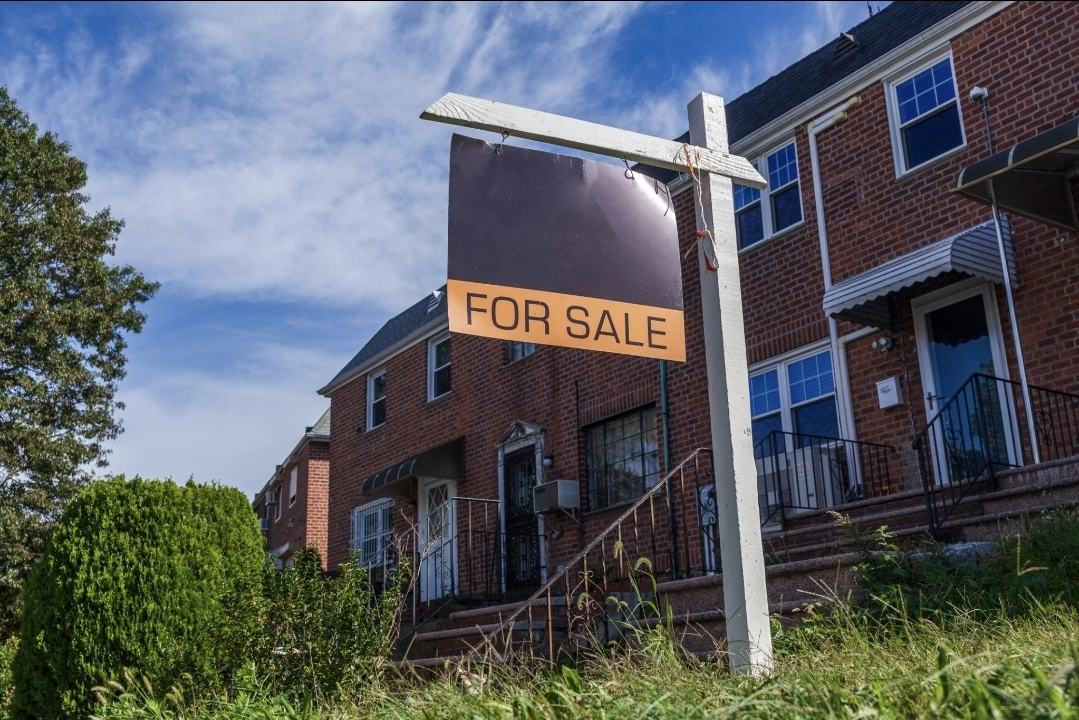
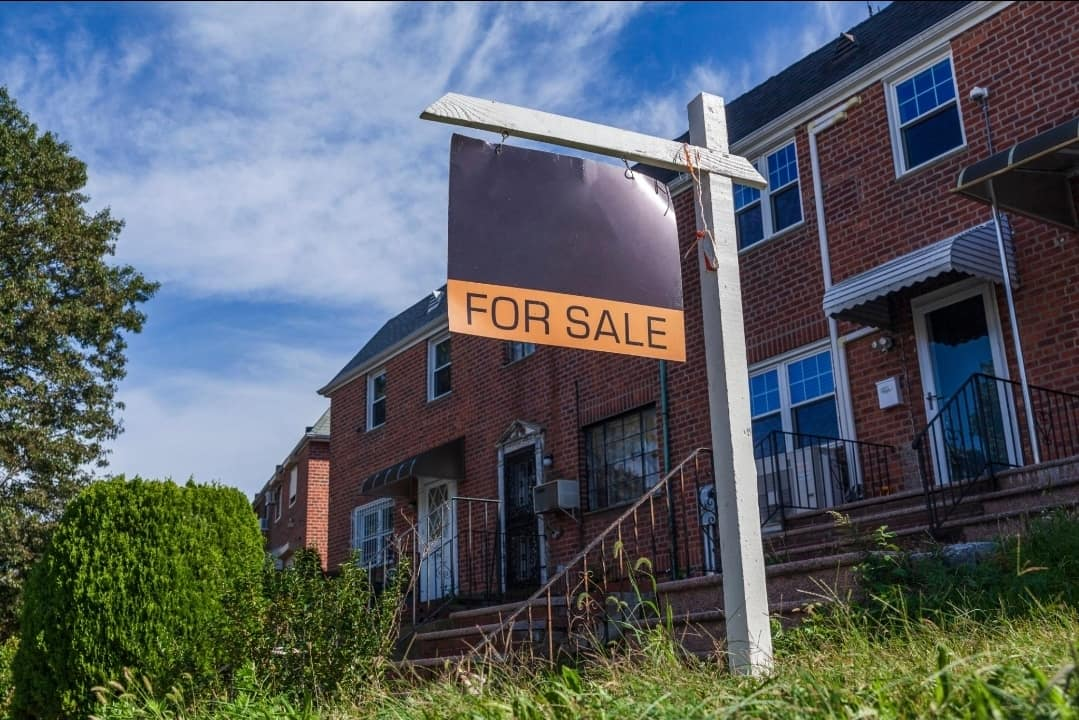
Optimize images: WebP + compression to cut mobile LCP
Lighthouse on www.doryangel.com showed mobile Performance 42/100 with
LCP 21.1s, driven almost entirely by heavy JPEG hero/photo assets.

- Recompress all referenced JPEGs in place (mozjpeg) and add WebP variants
  (~3.6MB -> ~396KB best-format for the photo set).
- Serve WebP via <picture> for the audience/checklist/contact <img>s and via
  CSS image-set() (with JPEG fallback) for the two local hero backgrounds.
- Add auto=format,compress to all Unsplash URLs so they deliver AVIF/WebP.
- Add loading=lazy/decoding=async to below-fold content-card images.
- picture { display: contents } keeps existing img box/styles intact.

Claude-Session: https://claude.ai/code/session_01KARuADa9q5weVJCPUDCfn4

diff --git a/index.html b/index.html
@@ -520,6 +520,8 @@ section { padding: 96px 40px; }
   cursor: pointer; text-decoration: none; color: inherit;
   display: block; overflow: hidden;
 }
+/* <picture> is layout-transparent so its <img> inherits the same box/styles as a bare <img> */
+picture { display: contents; }
 .audience-card-photo {
   margin: -32px -28px 24px;
   height: 180px; border-radius: var(--radius) var(--radius) 0 0; overflow: hidden;
@@ -2438,12 +2440,12 @@ retell-chat-web-component {
 <!-- HERO -->
 <div class="hero-wrap" id="main-content">
 <div class="hero-skyline" id="hero-skyline" aria-hidden="true">
-  <div class="hero-photo active" role="img" aria-label="NYC residential street with apartment buildings" style="background-image:url('https://images.unsplash.com/photo-1496442226666-8d4d0e62e6e9?w=1600&q=80&fit=crop')"></div>
-  <div class="hero-photo" role="img" aria-label="Modern apartment building facade in New York City" style="background-image:url('https://images.unsplash.com/photo-1485871981521-5b1fd3805eee?w=1600&q=80&fit=crop')"></div>
-  <div class="hero-photo" role="img" aria-label="NYC neighborhood with brownstone buildings" style="background-image:url('https://images.unsplash.com/photo-1518391846015-55a9cc003b25?w=1600&q=80&fit=crop')"></div>
-  <div class="hero-photo" role="img" aria-label="Bronx residential property exterior" style="background-image:url('https://images.unsplash.com/photo-1538970272646-f61fabb3a8a2?w=1600&q=80&fit=crop')"></div>
-  <div class="hero-photo" role="img" aria-label="NYC high-rise residential tower architecture" style="background-image:url('./assets/photo-hero-nyc-tower.jpg')"></div>
-  <div class="hero-photo" role="img" aria-label="Brick rowhouse in a New York City neighborhood with a for-sale sign" style="background-image:url('./assets/photo-hero-for-sale.jpg')"></div>
+  <div class="hero-photo active" role="img" aria-label="NYC residential street with apartment buildings" style="background-image:url('https://images.unsplash.com/photo-1496442226666-8d4d0e62e6e9?w=1600&q=70&auto=format,compress&fit=crop')"></div>
+  <div class="hero-photo" role="img" aria-label="Modern apartment building facade in New York City" style="background-image:url('https://images.unsplash.com/photo-1485871981521-5b1fd3805eee?w=1600&q=70&auto=format,compress&fit=crop')"></div>
+  <div class="hero-photo" role="img" aria-label="NYC neighborhood with brownstone buildings" style="background-image:url('https://images.unsplash.com/photo-1518391846015-55a9cc003b25?w=1600&q=70&auto=format,compress&fit=crop')"></div>
+  <div class="hero-photo" role="img" aria-label="Bronx residential property exterior" style="background-image:url('https://images.unsplash.com/photo-1538970272646-f61fabb3a8a2?w=1600&q=70&auto=format,compress&fit=crop')"></div>
+  <div class="hero-photo" role="img" aria-label="NYC high-rise residential tower architecture" style="background-image:url('./assets/photo-hero-nyc-tower.jpg');background-image:image-set(url('./assets/photo-hero-nyc-tower.webp') type('image/webp'), url('./assets/photo-hero-nyc-tower.jpg') type('image/jpeg'))"></div>
+  <div class="hero-photo" role="img" aria-label="Brick rowhouse in a New York City neighborhood with a for-sale sign" style="background-image:url('./assets/photo-hero-for-sale.jpg');background-image:image-set(url('./assets/photo-hero-for-sale.webp') type('image/webp'), url('./assets/photo-hero-for-sale.jpg') type('image/jpeg'))"></div>
 </div>
 <div class="hero">
   <div class="hero-content">
@@ -2536,7 +2538,10 @@ retell-chat-web-component {
       <!-- Owners -->
       <a href="#pricing" class="audience-card">
         <div class="audience-card-photo">
-          <img src="./assets/photo-owners-signing.jpg" alt="Property owners signing a management agreement with their DoryAngel manager" loading="lazy">
+          <picture>
+            <source srcset="./assets/photo-owners-signing.webp" type="image/webp">
+            <img src="./assets/photo-owners-signing.jpg" alt="Property owners signing a management agreement with their DoryAngel manager" loading="lazy" decoding="async">
+          </picture>
         </div>
         <div class="audience-icon">
           <svg viewBox="0 0 24 24" fill="none" stroke="currentColor" stroke-width="2">
@@ -2555,7 +2560,10 @@ retell-chat-web-component {
       <!-- Tenants -->
       <a href="https://doryangel.managebuilding.com" target="_blank" rel="noopener noreferrer" class="audience-card">
         <div class="audience-card-photo">
-          <img src="./assets/photo-tenants-nyc-home.jpg" alt="A real NYC residential home managed by DoryAngel" loading="lazy">
+          <picture>
+            <source srcset="./assets/photo-tenants-nyc-home.webp" type="image/webp">
+            <img src="./assets/photo-tenants-nyc-home.jpg" alt="A real NYC residential home managed by DoryAngel" loading="lazy" decoding="async">
+          </picture>
         </div>
         <div class="audience-icon">
           <svg viewBox="0 0 24 24" fill="none" stroke="currentColor" stroke-width="2">
@@ -2574,7 +2582,10 @@ retell-chat-web-component {
       <!-- Brokers -->
       <a href="broker-partner.html" class="audience-card">
         <div class="audience-card-photo">
-          <img src="./assets/photo-brokers-consultation.jpg" alt="Real estate broker and client reviewing a property management proposal" loading="lazy">
+          <picture>
+            <source srcset="./assets/photo-brokers-consultation.webp" type="image/webp">
+            <img src="./assets/photo-brokers-consultation.jpg" alt="Real estate broker and client reviewing a property management proposal" loading="lazy" decoding="async">
+          </picture>
         </div>
         <div class="audience-icon">
           <svg viewBox="0 0 24 24" fill="none" stroke="currentColor" stroke-width="2">
@@ -2594,7 +2605,10 @@ retell-chat-web-component {
       <!-- Vendors -->
       <a href="#contact" class="audience-card">
         <div class="audience-card-photo">
-          <img src="./assets/photo-vendors-maintenance.jpg" alt="Maintenance technician servicing an apartment unit for a DoryAngel property" loading="lazy">
+          <picture>
+            <source srcset="./assets/photo-vendors-maintenance.webp" type="image/webp">
+            <img src="./assets/photo-vendors-maintenance.jpg" alt="Maintenance technician servicing an apartment unit for a DoryAngel property" loading="lazy" decoding="async">
+          </picture>
         </div>
         <div class="audience-icon">
           <svg viewBox="0 0 24 24" fill="none" stroke="currentColor" stroke-width="2">
@@ -2621,10 +2635,14 @@ retell-chat-web-component {
 
     <div style="display:flex;gap:48px;align-items:center;margin-top:40px;margin-bottom:56px;flex-wrap:wrap;">
       <div style="flex:0 0 360px;max-width:100%;">
-        <img src="./assets/photo-owner-checklist.jpg"
-             alt="Property manager reviewing a property visit checklist on a tablet"
-             loading="lazy"
-             style="width:100%;border-radius:16px;box-shadow:var(--shadow-lg);display:block;object-fit:cover;">
+        <picture>
+          <source srcset="./assets/photo-owner-checklist.webp" type="image/webp">
+          <img src="./assets/photo-owner-checklist.jpg"
+               alt="Property manager reviewing a property visit checklist on a tablet"
+               loading="lazy"
+               decoding="async"
+               style="width:100%;border-radius:16px;box-shadow:var(--shadow-lg);display:block;object-fit:cover;">
+        </picture>
       </div>
       <div style="flex:1;min-width:240px;">
         <p style="font-family:'DM Serif Display',serif;font-size:26px;color:var(--navy);line-height:1.4;margin-bottom:20px;">"We don't just manage properties — we protect your investment, so you can focus on what matters."</p>
@@ -3113,7 +3131,7 @@ retell-chat-web-component {
     <!-- Static fallback for mobile / reduced-motion -->
     <img
       class="video-divider__img"
-      src="https://images.unsplash.com/photo-1546436836-07a91091f160?w=1600&q=80"
+      src="https://images.unsplash.com/photo-1546436836-07a91091f160?w=1600&q=70&auto=format,compress"
       alt="New York City skyline"
       loading="lazy"
     />
@@ -3425,7 +3443,7 @@ retell-chat-web-component {
     <noscript>
       <div style="display:grid;grid-template-columns:repeat(auto-fill,minmax(280px,1fr));gap:24px;margin-top:32px;">
         <a href="/blog/how-much-will-spring-flooding-cost-bronx-landlords-in-2026-a/" style="text-decoration:none;border-radius:12px;overflow:hidden;border:1px solid #E2E8F0;display:block;">
-          <img src="https://images.unsplash.com/photo-1657727534671-f0c753f3a098?w=600&q=80&fit=crop" alt="Flooded basement apartment in a Bronx multi-family building" style="width:100%;height:180px;object-fit:cover;display:block;">
+          <img src="https://images.unsplash.com/photo-1657727534671-f0c753f3a098?w=600&q=70&auto=format,compress&fit=crop" alt="Flooded basement apartment in a Bronx multi-family building" loading="lazy" decoding="async" style="width:100%;height:180px;object-fit:cover;display:block;">
           <div style="padding:16px 20px;">
             <div style="font-size:11px;font-weight:700;color:#1E5AA8;text-transform:uppercase;letter-spacing:0.08em;margin-bottom:8px;">Property Management · 4 min read</div>
             <div style="font-size:16px;font-weight:700;color:#0F2847;line-height:1.35;margin-bottom:8px;">How Much Will Spring Flooding Cost Bronx Landlords in 2026? A Drainage Prevention Guide</div>
@@ -3433,7 +3451,7 @@ retell-chat-web-component {
           </div>
         </a>
         <a href="/blog/are-your-bronx-rental-units-spring-ready-the-essential-exter/" style="text-decoration:none;border-radius:12px;overflow:hidden;border:1px solid #E2E8F0;display:block;">
-          <img src="https://images.unsplash.com/photo-1573878220075-17bb8dad878d?w=600&q=80&fit=crop" alt="Bronx multi-family rental building exterior being inspected for spring maintenance" style="width:100%;height:180px;object-fit:cover;display:block;">
+          <img src="https://images.unsplash.com/photo-1573878220075-17bb8dad878d?w=600&q=70&auto=format,compress&fit=crop" alt="Bronx multi-family rental building exterior being inspected for spring maintenance" loading="lazy" decoding="async" style="width:100%;height:180px;object-fit:cover;display:block;">
           <div style="padding:16px 20px;">
             <div style="font-size:11px;font-weight:700;color:#1E5AA8;text-transform:uppercase;letter-spacing:0.08em;margin-bottom:8px;">Property Management · 5 min read</div>
             <div style="font-size:16px;font-weight:700;color:#0F2847;line-height:1.35;margin-bottom:8px;">Are Your Bronx Rental Units Spring-Ready? The Essential Exterior Inspection Guide for 2026</div>
@@ -3441,7 +3459,7 @@ retell-chat-web-component {
           </div>
         </a>
         <a href="/blog/how-ai-security-cameras-are-reducing-vacancy-crimes-in-nyc-re/" style="text-decoration:none;border-radius:12px;overflow:hidden;border:1px solid #E2E8F0;display:block;">
-          <img src="https://images.unsplash.com/photo-1557804506-669a67965ba0?w=600&q=80&fit=crop" alt="Modern AI security camera mounted on a brick building exterior in an urban neighborhood" style="width:100%;height:180px;object-fit:cover;display:block;">
+          <img src="https://images.unsplash.com/photo-1557804506-669a67965ba0?w=600&q=70&auto=format,compress&fit=crop" alt="Modern AI security camera mounted on a brick building exterior in an urban neighborhood" loading="lazy" decoding="async" style="width:100%;height:180px;object-fit:cover;display:block;">
           <div style="padding:16px 20px;">
             <div style="font-size:11px;font-weight:700;color:#1E5AA8;text-transform:uppercase;letter-spacing:0.08em;margin-bottom:8px;">Property Automation · 6 min read</div>
             <div style="font-size:16px;font-weight:700;color:#0F2847;line-height:1.35;margin-bottom:8px;">How AI Security Cameras Are Reducing Vacancy Crimes in NYC Rental Buildings</div>
@@ -4071,10 +4089,14 @@ retell-chat-web-component {
 
     <div class="contact-layout">
       <div class="contact-info">
-        <img src="./assets/photo-contact-professional.jpg"
-             alt="DoryAngel property management professional ready to help"
-             loading="lazy"
-             style="width:100%;height:220px;object-fit:cover;object-position:center top;border-radius:12px;margin-bottom:28px;display:block;">
+        <picture>
+          <source srcset="./assets/photo-contact-professional.webp" type="image/webp">
+          <img src="./assets/photo-contact-professional.jpg"
+               alt="DoryAngel property management professional ready to help"
+               loading="lazy"
+               decoding="async"
+               style="width:100%;height:220px;object-fit:cover;object-position:center top;border-radius:12px;margin-bottom:28px;display:block;">
+        </picture>
         <h3>Let's talk about your property</h3>
         <p>Whether you're looking to hand off management, explore our flat-fee plans, or just have questions — our team is ready to help. No pressure, no commitment.</p>
 
